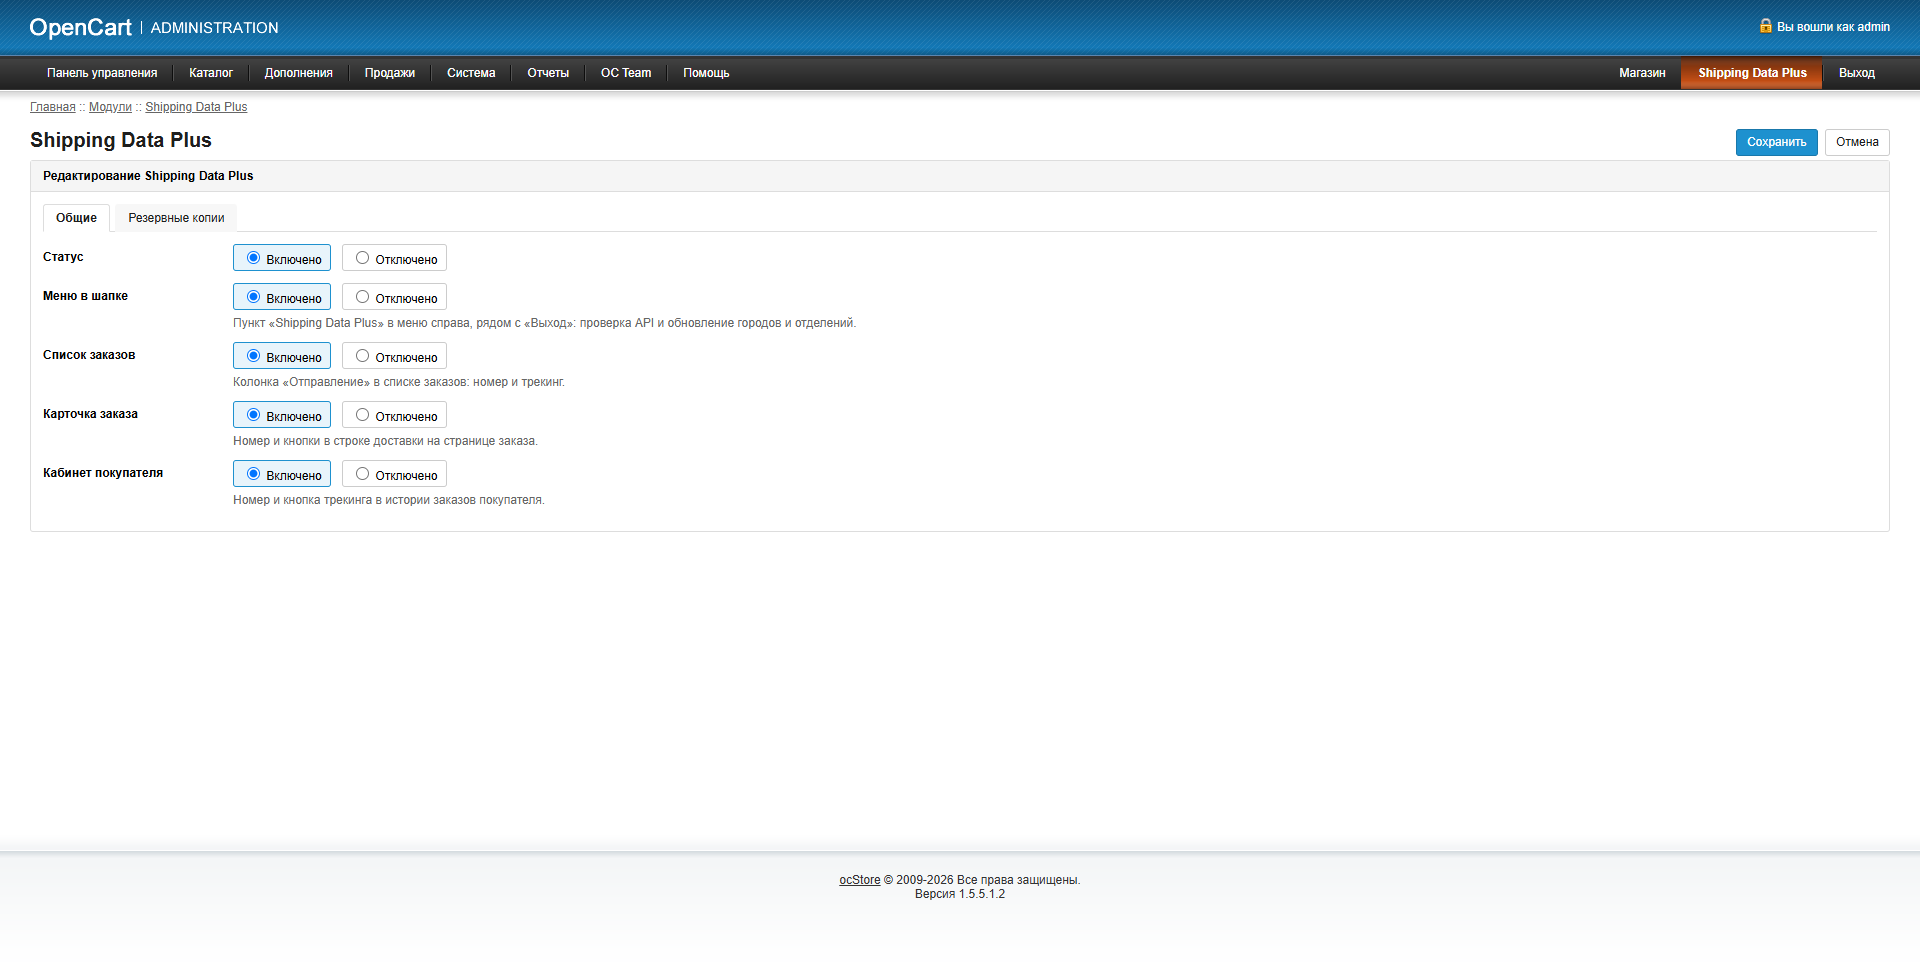
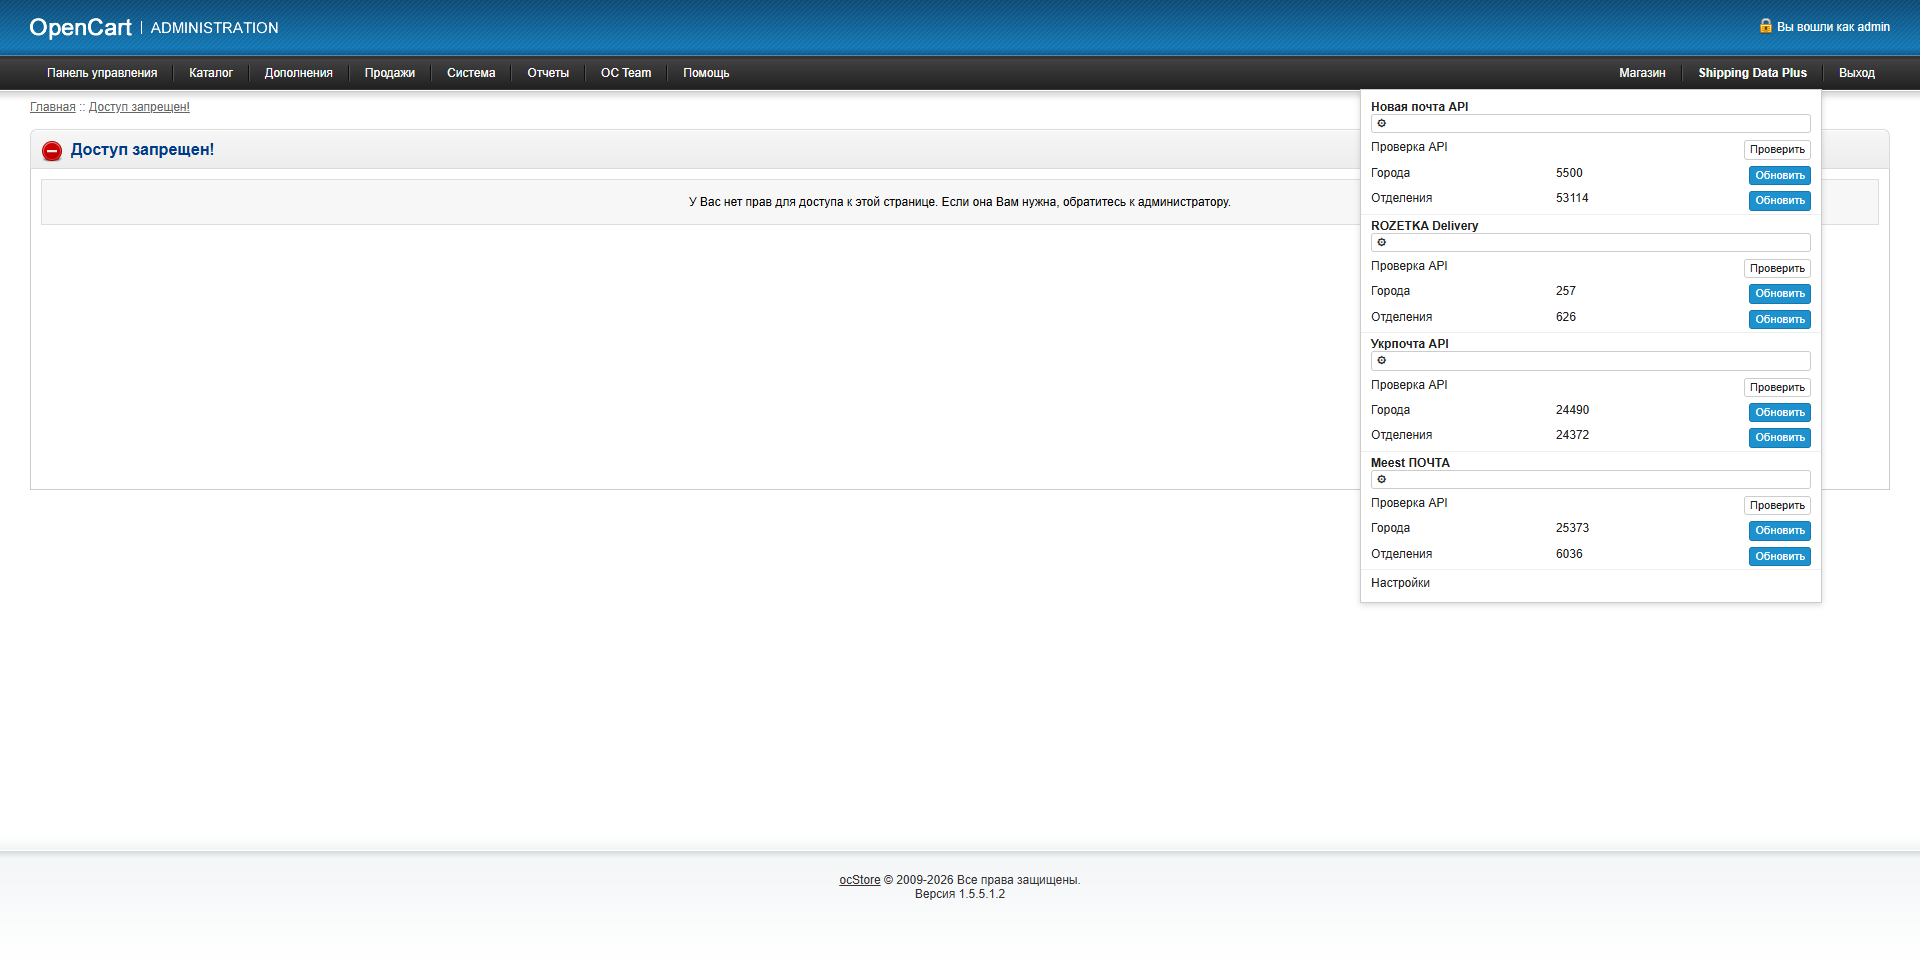
Point carrier links to the forum and recapture navbar and shipment screenshots with arrows.

diff --git a/instruction.html b/instruction.html
@@ -79,10 +79,10 @@
             Це доповнення для магазинів, які вже використовують модулі доставки OC Max і не планують оновлювати їх найближчим часом або не можуть оновити їх з технічних причин. Той самий функціонал з’явиться в майбутніх оновленнях цих модулів доставки. Доповнення працює разом із такими модулями:
         </p>
         <ul class="lead">
-            <li><a href="https://oc-max.com/nova-poshta-api" target="_blank" rel="noopener noreferrer">Nova Poshta API</a></li>
-            <li><a href="https://oc-max.com/ukrposhta-api" target="_blank" rel="noopener noreferrer">Ukrposhta API</a></li>
-            <li><a href="https://oc-max.com/meest-poshta" target="_blank" rel="noopener noreferrer">Meest</a></li>
-            <li><a href="https://oc-max.com/rozetka-delivery" target="_blank" rel="noopener noreferrer">Rozetka Delivery</a></li>
+            <li><a href="https://opencartforum.com/files/file/2544-nova-poshta-api-modul-dostavky-dlia-opencart/" target="_blank" rel="noopener noreferrer">Nova Poshta API</a></li>
+            <li><a href="https://opencartforum.com/files/file/6293-ukrposhta-api-modul-dostavky-dlia-opencart/" target="_blank" rel="noopener noreferrer">Ukrposhta API</a></li>
+            <li><a href="https://opencartforum.com/files/file/9692-meest-poshta-modul-dostavky-dlia-opencart/" target="_blank" rel="noopener noreferrer">Meest</a></li>
+            <li><a href="https://opencartforum.com/files/file/9261-rozetka-delivery-modul-dostavky-dlia-opencart/" target="_blank" rel="noopener noreferrer">Rozetka Delivery</a></li>
         </ul>
         <p class="lead">
             Доповнення сумісне з модулем <a href="https://opencartforum.com/files/file/9693-nova-poshta-pro-modul-dostavky-dlia-opencart/" target="_blank" rel="noopener noreferrer">Nova Poshta PRO</a>.
@@ -366,10 +366,10 @@
             This add-on is for shops that already use OC Max delivery modules and do not plan to update them soon, or cannot update them for technical reasons. The same functionality will be added in future updates of those delivery modules. The extension works with these modules:
         </p>
         <ul class="lead">
-            <li><a href="https://oc-max.com/nova-poshta-api" target="_blank" rel="noopener noreferrer">Nova Poshta API</a></li>
-            <li><a href="https://oc-max.com/ukrposhta-api" target="_blank" rel="noopener noreferrer">Ukrposhta API</a></li>
-            <li><a href="https://oc-max.com/meest-poshta" target="_blank" rel="noopener noreferrer">Meest</a></li>
-            <li><a href="https://oc-max.com/rozetka-delivery" target="_blank" rel="noopener noreferrer">Rozetka Delivery</a></li>
+            <li><a href="https://opencartforum.com/files/file/2544-nova-poshta-api-modul-dostavky-dlia-opencart/" target="_blank" rel="noopener noreferrer">Nova Poshta API</a></li>
+            <li><a href="https://opencartforum.com/files/file/6293-ukrposhta-api-modul-dostavky-dlia-opencart/" target="_blank" rel="noopener noreferrer">Ukrposhta API</a></li>
+            <li><a href="https://opencartforum.com/files/file/9692-meest-poshta-modul-dostavky-dlia-opencart/" target="_blank" rel="noopener noreferrer">Meest</a></li>
+            <li><a href="https://opencartforum.com/files/file/9261-rozetka-delivery-modul-dostavky-dlia-opencart/" target="_blank" rel="noopener noreferrer">Rozetka Delivery</a></li>
         </ul>
         <p class="lead">
             The extension is compatible with the <a href="https://opencartforum.com/files/file/9693-nova-poshta-pro-modul-dostavky-dlia-opencart/" target="_blank" rel="noopener noreferrer">Nova Poshta PRO</a> module.
@@ -613,10 +613,10 @@
             Это дополнение для магазинов, которые уже используют модули доставки OC Max и не планируют обновлять их в ближайшее время или не могут обновить их по техническим причинам. Тот же функционал появится в будущих обновлениях этих модулей доставки. Дополнение работает вместе с такими модулями:
         </p>
         <ul class="lead">
-            <li><a href="https://oc-max.com/nova-poshta-api" target="_blank" rel="noopener noreferrer">Nova Poshta API</a></li>
-            <li><a href="https://oc-max.com/ukrposhta-api" target="_blank" rel="noopener noreferrer">Ukrposhta API</a></li>
-            <li><a href="https://oc-max.com/meest-poshta" target="_blank" rel="noopener noreferrer">Meest</a></li>
-            <li><a href="https://oc-max.com/rozetka-delivery" target="_blank" rel="noopener noreferrer">Rozetka Delivery</a></li>
+            <li><a href="https://opencartforum.com/files/file/2544-nova-poshta-api-modul-dostavky-dlia-opencart/" target="_blank" rel="noopener noreferrer">Nova Poshta API</a></li>
+            <li><a href="https://opencartforum.com/files/file/6293-ukrposhta-api-modul-dostavky-dlia-opencart/" target="_blank" rel="noopener noreferrer">Ukrposhta API</a></li>
+            <li><a href="https://opencartforum.com/files/file/9692-meest-poshta-modul-dostavky-dlia-opencart/" target="_blank" rel="noopener noreferrer">Meest</a></li>
+            <li><a href="https://opencartforum.com/files/file/9261-rozetka-delivery-modul-dostavky-dlia-opencart/" target="_blank" rel="noopener noreferrer">Rozetka Delivery</a></li>
         </ul>
         <p class="lead">
             Дополнение совместимо с модулем <a href="https://opencartforum.com/files/file/9693-nova-poshta-pro-modul-dostavky-dlia-opencart/" target="_blank" rel="noopener noreferrer">Nova Poshta PRO</a>.
